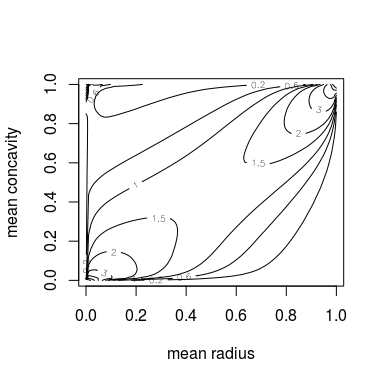
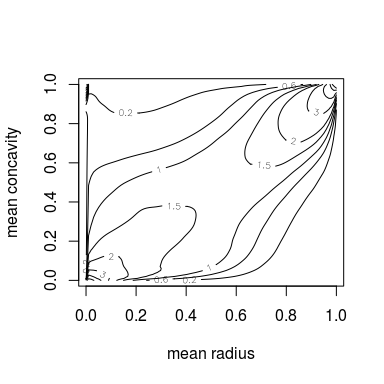
update READEM with codecov badge

diff --git a/README.md b/README.md
@@ -1,9 +1,8 @@
 kdecopula
 =========
 
-> Kernel smoothing for bivariate copula densities
-
-[![Build status Linux](https://travis-ci.org/tnagler/kdecopula.svg?branch=master)](https://travis-ci.org/tnagler/kdecopula) [![Build status Windows](https://ci.appveyor.com/api/projects/status/32r7s2skrgm9ubva/branch/master?svg=true)](https://ci.appveyor.com/project/tnagler/kdecopula) [![CRAN version](http://www.r-pkg.org/badges/version/kdecopula)](https://cran.r-project.org/package=kdecopula) [![CRAN downloads](http://cranlogs.r-pkg.org/badges/kdecopula)](https://cran.r-project.org/package=kdecopula)
+[![Build status Linux](https://travis-ci.org/tnagler/kdecopula.svg?branch=master)](https://travis-ci.org/tnagler/kdecopula) [![Build status Windows](https://ci.appveyor.com/api/projects/status/32r7s2skrgm9ubva/branch/master?svg=true)](https://ci.appveyor.com/project/tnagler/kdecopula) [![codecov.io](https://codecov.io/github/tnagler/kdecopula/coverage.svg?branch=master)](https://codecov.io/github/tnagler/kdecopula?branch=master) [![CRAN version](http://www.r-pkg.org/badges/version/kdecopula)](https://cran.r-project.org/package=kdecopula) [![CRAN downloads](http://cranlogs.r-pkg.org/badges/kdecopula)](https://cran.r-project.org/package=kdecopula)
+[![License: GPL v3](https://img.shields.io/badge/License-GPL%20v3-blue.svg)](http://www.gnu.org/licenses/gpl-3.0)
 
 This package provides fast implementations of kernel estimators for the copula density. Due to its several plotting options it is particularly useful for the exploratory analysis of dependence structures. It can be further used for flexible nonparametric estimation of copula densities and resampling.
 
@@ -98,20 +97,21 @@ summary(kde.fit)
 #> ------------------------------
 #> Variables:    mean radius -- mean concavity 
 #> Observations: 569 
-#> Method:       Transformation local likelihood, log-quadratic ('TLL2') 
-#> Bandwidth:    matrix(c(2.63, 1.67, 0, 2.01), 2, 2)
+#> Method:       Transformation local likelihood, log-quadratic (nearest-neighbor, 'TLL2nn') 
+#> Bandwidth:    alpha = 0.3519647
+#>               B = matrix(c(0.71, 0.7, -0.7, 0.71), 2, 2)
 #> ---
-#> logLik: 192.41    AIC: -363.13    cAIC: -362.67    BIC: -316.03 
-#> Effective number of parameters: 10.84
+#> logLik: 201.22    AIC: -367.97    cAIC: -366.83    BIC: -293.11 
+#> Effective number of parameters: 17.23
 ```
 
 The output of the function `kdecop` is an object of class `kdecopula` that contains all information collected during the estimation process and summary statistics such as *AIC* or the *effective number of parameters/degrees of freedom*. These can also be accessed directly, e.g.
 
 ``` r
 logLik(kde.fit)
-#> 'log Lik.' 192.4111 (df=10.84394)
+#> 'log Lik.' 201.2196 (df=17.23373)
 AIC(kde.fit)
-#> [1] -363.1344
+#> [1] -367.9718
 ```
 
 #### Plotting bivariate copula densities
@@ -161,9 +161,9 @@ The density and *cdf* can be computed easily:
 
 ``` r
 dkdecop(c(0.1, 0.2), kde.fit)  # estimated copula density
-#> [1] 1.766521
+#> [1] 1.691764
 pkdecop(cbind(c(0.1, 0.9), c(0.1, 0.9)), kde.fit) # corresponding copula cdf
-#> [1] 0.03415951 0.84975138
+#> [1] 0.0327257 0.8505370
 ```
 
 Furthermore, we can simulate synthetic data from the estimated density:
